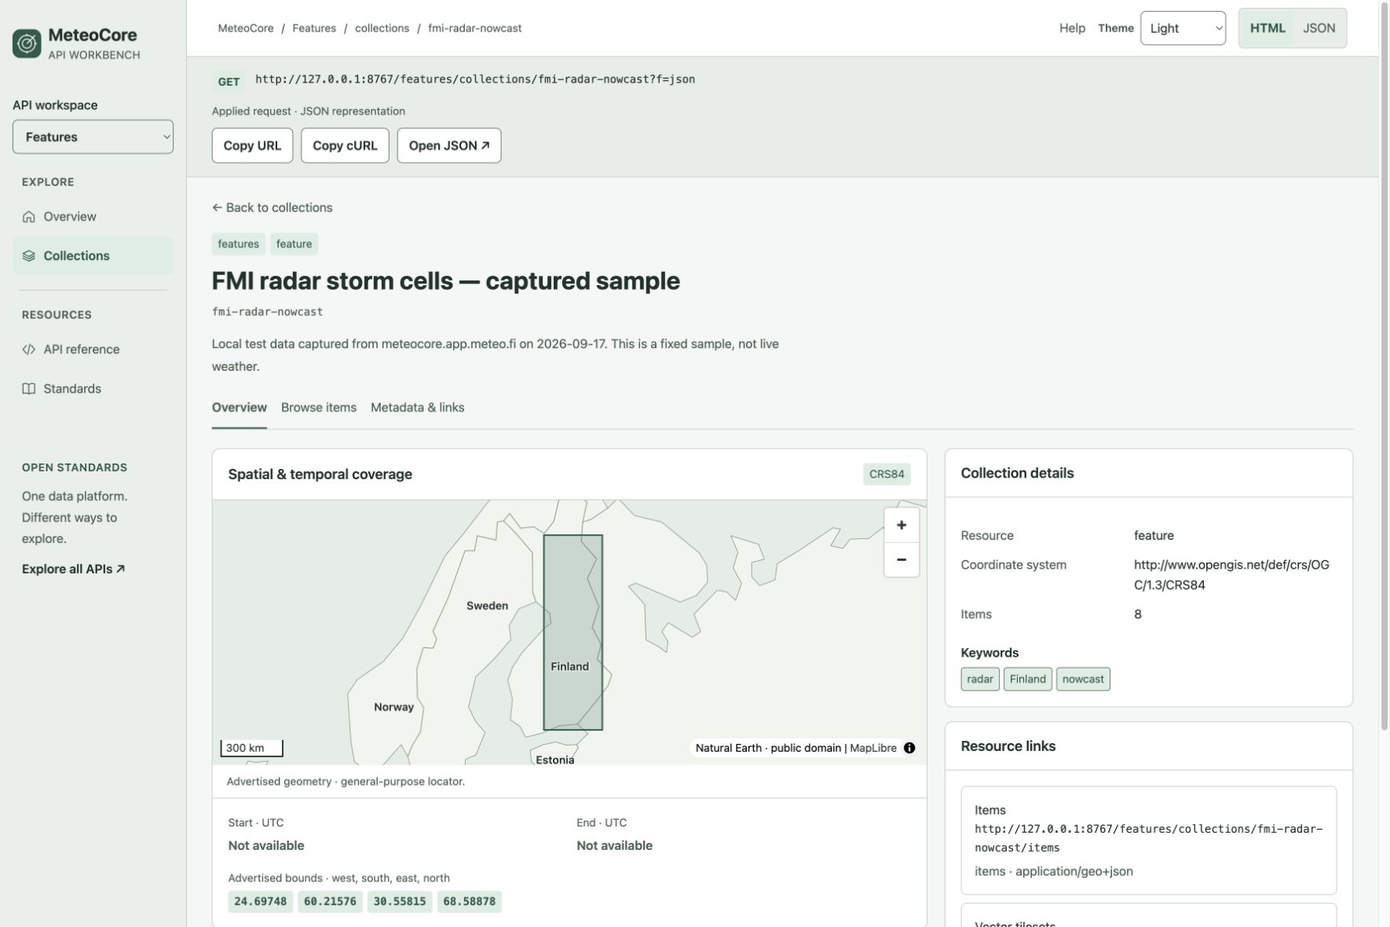
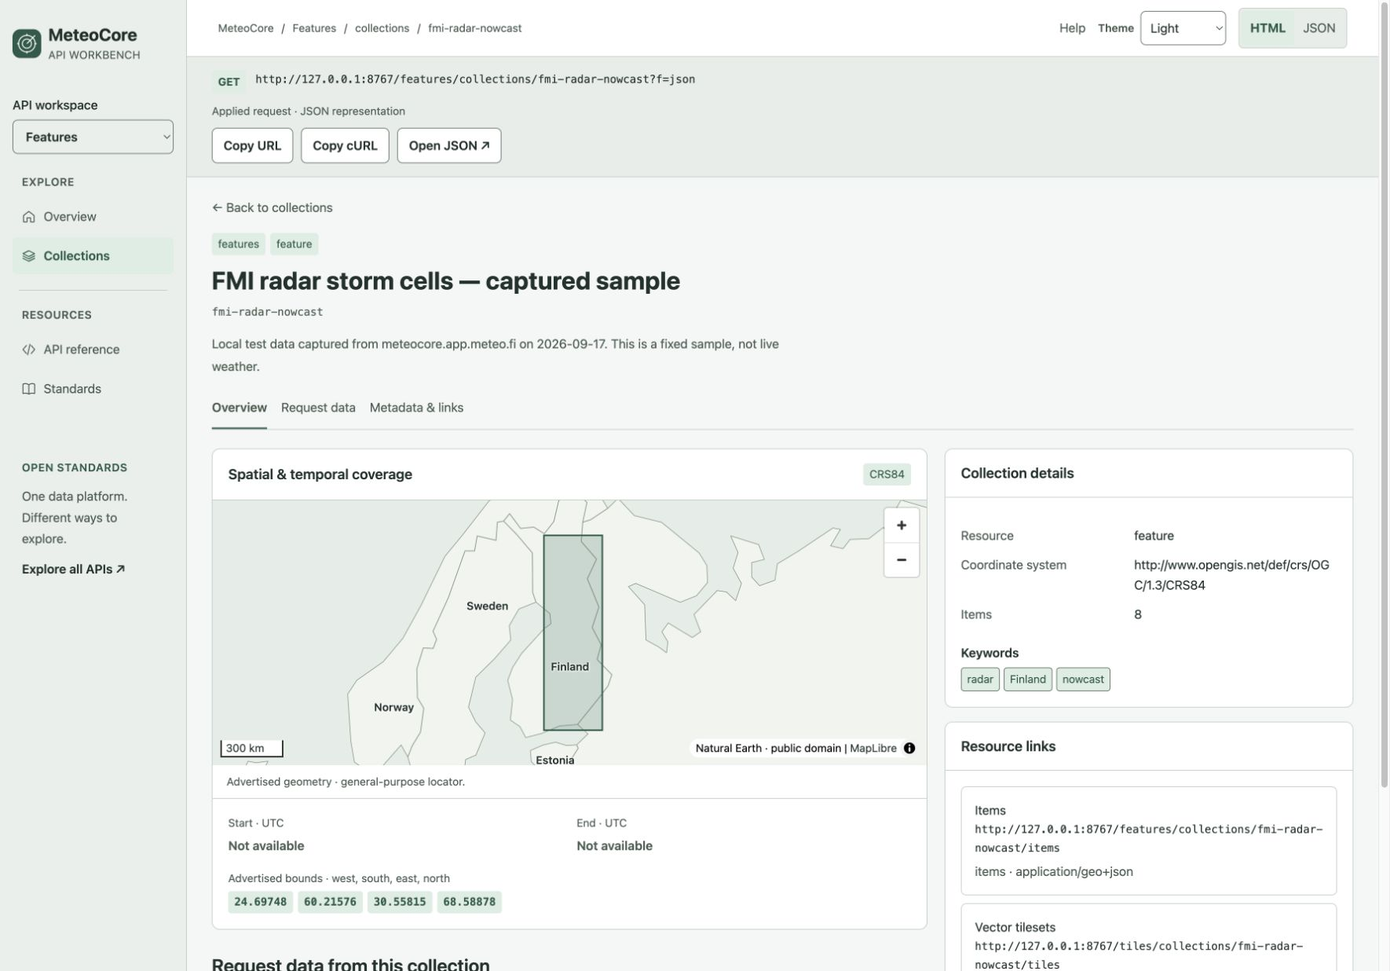
Separate collection discovery from data request workflow

diff --git a/crates/api-common/src/workbench.rs b/crates/api-common/src/workbench.rs
@@ -213,7 +213,7 @@ impl Page<'_> {
 <body><a class="skip" href="#main">Skip to content</a><div class="shell"><aside class="sidebar" aria-label="API navigation"><a class="brand" href="{base}/?f=html"><span class="brand-mark"><svg viewBox="0 0 32 32" fill="none" aria-hidden="true"><circle cx="16" cy="16" r="11"/><circle cx="16" cy="16" r="6"/><path d="M16 16 27 5M16 3v3M3 16h3M16 26v3M26 16h3"/></svg></span><span>MeteoCore<small>API WORKBENCH</small></span></a><div class="api-switch enhanced"><label for="api-select">API workspace</label><select id="api-select">{options}</select></div><noscript><nav aria-label="APIs">{api_nav}</nav></noscript><nav id="primary-nav" aria-label="Workspace">{nav}</nav><div class="sidebar-note"><span class="eyebrow">OPEN STANDARDS</span><p>One data platform.<br>Different ways to explore.</p><a href="{base}/?f=html">Explore all APIs ↗</a></div><div class="sidebar-footer">MeteoCore<small>OGC API · Developer workspace</small></div></aside>
 <div class="workspace"><header class="topbar"><nav id="breadcrumbs" aria-label="Breadcrumb">{crumbs}</nav><div class="topbar-actions"><button class="quiet enhanced" id="help-button">Help</button><label class="theme-label enhanced" for="theme">Theme<select id="theme"><option value="system">System</option><option value="light">Light</option><option value="dark">Dark</option></select></label><nav class="representation-switch" aria-label="Representation"><a aria-current="page" href="{html_url}">HTML</a><a rel="alternate" id="json-link" href="{json_url}">JSON</a></nav></div></header>
 <section id="request-context" aria-label="Current API request"><div class="request-identity"><span class="method">GET</span><code id="request-url">{json_url}</code></div><div class="request-tools"><span class="request-note">Applied request · JSON representation</span><button class="btn small enhanced" data-copy="{json_url}">Copy URL</button><button class="btn small enhanced" data-copy="{curl}">Copy cURL</button><a class="btn small" href="{json_url}">Open JSON ↗</a></div></section>
-<main id="main" tabindex="-1">{body}</main><footer class="page-footer"><span>MeteoCore · Open weather data</span><span>HTML representation · Times in UTC</span></footer></div></div><dialog id="help-dialog"><div class="dialog-head"><h2>Find the right data</h2><button class="icon-button" id="close-help" aria-label="Close help">×</button></div><div class="panel-body"><p>Collection search matches titles, descriptions and keywords. Commas separate alternatives; words form a phrase.</p><p>Advanced search adds required (+) and excluded (-) terms. Area and time narrow coverage; unknown extents remain eligible.</p><p>Item property filters belong to the selected collection. The JSON switch always opens the current resource with its applied filters and paging.</p></div></dialog><div id="toast" role="status" aria-live="polite"></div><script>{SCRIPT}</script></body></html>"##,
+<main id="main" tabindex="-1">{body}</main><footer class="page-footer"><span>MeteoCore · Open weather data</span><span>HTML representation · Times in UTC</span></footer></div></div><dialog id="help-dialog"><div class="dialog-head"><h2>Find a collection, then request data</h2><button class="icon-button" id="close-help" aria-label="Close help">×</button></div><div class="panel-body"><p><strong>1. Find a collection.</strong> Collection search matches titles, descriptions and keywords. Commas separate alternatives; words form a phrase.</p><p>Advanced search adds required (+) and excluded (-) terms. Area and time narrow coverage; unknown extents remain eligible.</p><p><strong>2. Request data.</strong> Open a collection to see its data operations. Feature filters select items within that collection; discovery filters are not copied into the data request. The JSON switch always opens the current resource with its applied filters and paging.</p></div></dialog><div id="toast" role="status" aria-live="polite"></div><script>{SCRIPT}</script></body></html>"##,
             title = escape(title),
             json_url = escape(safe_href(json_url)),
             html_url = escape(safe_href(&html_url)),
@@ -347,8 +347,14 @@ pub fn landing_document(
         body.push_str(&format!("<a class=\"resource-row\" href=\"{}\"><span class=\"method\">GET</span><code>{}</code><span>{}</span>{}</a>",escape(safe_href(&target)),escape(href.strip_prefix(base).unwrap_or(href)),escape(label),icon("arrow")));
     }
     body.push_str("</div></section>");
-    let example = format!("{base}/{discovery}/collections?q=radar&limit=12&f=html");
-    body.push_str(&format!("<div class=\"developer-start\"><section class=\"panel panel-body\"><span class=\"eyebrow\">BUILD A DISCOVERY REQUEST</span><h2>Find a collection</h2><form method=\"get\" action=\"{base}/{discovery}/collections\"><input type=\"hidden\" name=\"f\" value=\"html\"><label for=\"q\">q <span class=\"parameter-type\">string · optional</span></label><div class=\"search-row\"><input id=\"q\" name=\"q\" placeholder=\"radar\"><button class=\"btn primary\">Build query {arrow}</button></div><p class=\"field-help\">Matches title, description and keywords. Add spatial, temporal and paging parameters in the query builder.</p></form></section><section class=\"panel panel-body\"><span class=\"eyebrow\">REQUEST EXAMPLE</span><code class=\"example-code\">GET /{discovery}/collections?q=radar&amp;limit=12&amp;f=json</code><p class=\"section-note\">HTML and JSON represent the same resource and applied parameters.</p>{}</section></div>",anchor(&example,"Open in query builder →","btn small"),base=escape(base),arrow=icon("arrow")));
+    let data_guidance = match api {
+        "features" => "Open a collection, then use Request data to filter its features by the supported properties, area and time. Inspect the results or copy the GeoJSON request.",
+        "edr" => "Open a collection to see its supported data queries and parameters. Choose a location, position or area query, then use the linked API reference to supply the required inputs.",
+        "maps" => "Open a collection to see its map resources. Use the map preview to inspect the data, or the API reference to request an image for an area, time and style.",
+        "tiles" => "Open a collection and follow its tileset links. Select a tile matrix set and tile coordinates to request map or vector tiles.",
+        _ => "Choose an API and a collection first. Then request features, environmental values, map images or tiles using that collection's supported operations.",
+    };
+    body.push_str(&format!(r#"<div class="developer-start"><section class="panel panel-body"><span class="eyebrow">COLLECTION DISCOVERY</span><h2>1. Find a collection</h2><form method="get" action="{base}/{discovery}/collections"><input type="hidden" name="f" value="html"><label for="q">Search collections <span class="parameter-type">q · optional</span></label><div class="search-row"><input id="q" name="q" placeholder="radar"><button class="btn primary">Find collections {arrow}</button></div><p class="field-help">Search dataset titles, descriptions and keywords. Area and time filters in the catalog narrow the collection coverage.</p></form></section><section class="panel panel-body"><span class="eyebrow">DATA ACCESS</span><h2>2. Request data</h2><p class="section-note">{data_guidance}</p><p class="field-help">Select a collection to see the available data requests. Discovery filters are not carried over as data filters.</p></section></div>"#,base=escape(base),arrow=icon("arrow")));
     body.push_str("<section class=\"section-space\"><div class=\"section-header\"><h2>API definitions &amp; resource links</h2></div>");
     body.push_str(&document_links(doc));
     body.push_str("</section>");
@@ -421,7 +427,7 @@ pub fn collection_html(
         .unwrap_or("Environmental data");
     let mut body=format!("<a class=\"back-link\" data-back-scope=\"{}\" href=\"{}\">← Back to collections</a><div class=\"detail-heading\"><div class=\"chip-row\"><span class=\"chip teal\">{}</span><span class=\"chip\">{}</span></div><h1>{}</h1><div class=\"mono\">{}</div><p>{}</p></div><nav class=\"detail-tabs\" aria-label=\"Collection views\"><a data-collection-tab=\"overview\" class=\"active\" href=\"#overview\">Overview</a>",escape(&catalog),escape(&with_format(&catalog,"html")),escape(api),escape(kind),escape(title),escape(id),escape(doc["description"].as_str().unwrap_or_default()));
     if let Some(items) = items {
-        body.push_str(&anchor(&with_format(items, "html"), "Browse items", ""));
+        body.push_str(&anchor(&with_format(items, "html"), "Request data", ""));
     }
     body.push_str("<a data-collection-tab=\"metadata\" href=\"#metadata\">Metadata &amp; links</a></nav><section id=\"overview\" class=\"collection-view\" data-collection-view><div class=\"detail-layout\"><div><section class=\"panel\"><div class=\"panel-head\"><h2>Spatial &amp; temporal coverage</h2><span class=\"chip\">CRS84</span></div>");
     let bbox = &doc["extent"]["spatial"]["bbox"][0];
@@ -450,9 +456,9 @@ pub fn collection_html(
     } else {
         body.push_str("<div class=\"empty-state\"><p>Spatial extent not specified.</p></div>");
     }
-    body.push_str(&format!("<div class=\"coverage-facts\"><div class=\"fact\"><small>Start · UTC</small><strong>{}</strong></div><div class=\"fact\"><small>End · UTC</small><strong>{}</strong></div><div class=\"fact wide\"><small>Advertised bounds · west, south, east, north</small><strong class=\"mono\">{}</strong></div></div></section><section class=\"section-space\"><h2>What you can do with this collection</h2>",value_html(&interval[0]),value_html(&interval[1]),value_html(bbox)));
+    body.push_str(&format!("<div class=\"coverage-facts\"><div class=\"fact\"><small>Start · UTC</small><strong>{}</strong></div><div class=\"fact\"><small>End · UTC</small><strong>{}</strong></div><div class=\"fact wide\"><small>Advertised bounds · west, south, east, north</small><strong class=\"mono\">{}</strong></div></div></section><section class=\"section-space\"><h2>Request data from this collection</h2>",value_html(&interval[0]),value_html(&interval[1]),value_html(bbox)));
     if let Some(items) = items {
-        body.push_str(&format!("<div class=\"callout spaced\">Browse individual items, filter by supported properties, inspect geometry, and access the same results as GeoJSON.</div><div class=\"action-row spaced\">{}{}</div>",anchor(&with_format(items,"html"),"Browse items →","btn primary"),anchor(&url,"View metadata JSON","btn")));
+        body.push_str(&format!("<div class=\"callout spaced\">Filter features within this collection by its supported properties, area and time. Inspect the results or copy the GeoJSON request. These filters select data, not collections.</div><div class=\"action-row spaced\">{}{}</div>",anchor(&with_format(items,"html"),"Build a data request →","btn primary"),anchor(&url,"View metadata JSON","btn")));
     }
     if let Some(queries) = doc["data_queries"].as_object() {
         body.push_str("<div class=\"endpoint-list spaced\">");
@@ -596,7 +602,7 @@ pub fn collections_html(
         let current = value(name);
         match parameter {
             CollectionParameter::Format=>{},
-            CollectionParameter::Q=>primary=format!("<div class=\"search-row\"><div class=\"search-main\"><label for=\"collection-search\">q <span class=\"parameter-type\">string · optional</span></label><div class=\"search-input-wrap\">{}<input id=\"collection-search\" name=\"q\" value=\"{}\" placeholder=\"radar\"></div></div><button class=\"btn primary\">Apply query {}</button></div><p class=\"search-hint\">Titles, descriptions and keywords.<span>Try {} or {}</span></p>",icon("search"),escape(current),icon("arrow"),anchor(&query_edit(&json_url,"q",Some("radar")),"radar","quiet"),anchor(&query_edit(&json_url,"q",Some("observations")),"observations","quiet")),
+            CollectionParameter::Q=>primary=format!("<div class=\"search-row\"><div class=\"search-main\"><label for=\"collection-search\">q <span class=\"parameter-type\">string · optional</span></label><div class=\"search-input-wrap\">{}<input id=\"collection-search\" name=\"q\" value=\"{}\" placeholder=\"radar\"></div></div><button class=\"btn primary\">Find collections {}</button></div><p class=\"search-hint\">Titles, descriptions and keywords.<span>Try {} or {}</span></p>",icon("search"),escape(current),icon("arrow"),anchor(&query_edit(&json_url,"q",Some("radar")),"radar","quiet"),anchor(&query_edit(&json_url,"q",Some("observations")),"observations","quiet")),
             CollectionParameter::Limit|CollectionParameter::Offset=>paging.push_str(&input(name,&if name=="limit"{search.limit}else{search.offset}.to_string(),"integer","number",false)),
             CollectionParameter::Bbox=>{
                 let bounds:Vec<_>=current.split(',').collect();
@@ -641,10 +647,10 @@ pub fn collections_html(
             )
         })
         .collect::<String>();
-    let form=format!("<form class=\"search-panel query-form\" method=\"get\" action=\"{}\"><input type=\"hidden\" name=\"f\" value=\"html\"><div class=\"builder-heading\"><h2>Query parameters</h2><span class=\"mono\">GET</span></div>{primary}<details class=\"filters\" open><summary>Advanced search, area and time</summary><div class=\"filters-grid\">{advanced}</div><div class=\"paging-fields\">{paging}</div><div class=\"filter-controls\"><span class=\"field-help\">Collections with unknown extents remain eligible.</span>{}</div></details><div class=\"active-filters\">{chips}</div><div class=\"draft-request enhanced\"><small>Request preview · apply to update results</small><code data-draft></code></div><noscript><p>Enable JavaScript to edit advanced parameters.</p></noscript></form>",escape(url),anchor(&with_format(url,"html"),"Clear filters","quiet"));
+    let form=format!("<form class=\"search-panel query-form\" method=\"get\" action=\"{}\"><input type=\"hidden\" name=\"f\" value=\"html\"><div class=\"builder-heading\"><h2>Collection search</h2><span class=\"mono\">GET</span></div>{primary}<details class=\"filters\" open><summary>Advanced search, area and time</summary><div class=\"filters-grid\">{advanced}</div><div class=\"paging-fields\">{paging}</div><div class=\"filter-controls\"><span class=\"field-help\">Collections with unknown extents remain eligible.</span>{}</div></details><div class=\"active-filters\">{chips}</div><div class=\"draft-request enhanced\"><small>Collection search request · submit to update matches</small><code data-draft></code></div><noscript><p>Enable JavaScript to edit advanced parameters.</p></noscript></form>",escape(url),anchor(&with_format(url,"html"),"Clear filters","quiet"));
     let mut body = page_heading(
         "Collections",
-        "GET /collections · Build a discovery query and inspect the matching resources.",
+        "Find datasets by their metadata and coverage. Select a collection to build a data request.",
     );
     body=body.replace("OGC API · HTML REPRESENTATION",&format!("{} · DATA CATALOG",api.to_uppercase())).replacen("</div></div>",&format!("</div><div class=\"action-row\"><button class=\"btn enhanced\" data-copy=\"{}\">Copy API URL ↗</button></div></div>",escape(&json_url)),1);
     let first = if docs.is_empty() {
@@ -653,7 +659,7 @@ pub fn collections_html(
         search.offset + 1
     };
     let last = search.offset + docs.len();
-    body.push_str(&format!("<div data-results-scope=\"{}\"></div><div class=\"query-workspace\"><aside class=\"query-builder\">{form}</aside><section class=\"query-results\" aria-label=\"Query results\"><div class=\"results-bar\"><div><strong>{matched} matching collections</strong><small>{first}–{last} shown · Collection ID order</small></div><div class=\"view-switch enhanced\" aria-label=\"Result presentation\"><button data-view=\"list\" class=\"selected\" aria-pressed=\"true\">{}List</button><button data-view=\"cards\" aria-pressed=\"false\">{}Cards</button></div></div><div class=\"collection-list\">",escape(url),icon("list"),icon("grid")));
+    body.push_str(&format!("<div data-results-scope=\"{}\"></div><div class=\"query-workspace\"><aside class=\"query-builder\">{form}</aside><section class=\"query-results\" aria-label=\"Matching collections\"><div class=\"results-bar\"><div><strong>{matched} matching collections</strong><small>{first}–{last} shown · Collection ID order</small></div><div class=\"view-switch enhanced\" aria-label=\"Result presentation\"><button data-view=\"list\" class=\"selected\" aria-pressed=\"true\">{}List</button><button data-view=\"cards\" aria-pressed=\"false\">{}Cards</button></div></div><div class=\"collection-list\">",escape(url),icon("list"),icon("grid")));
     if docs.is_empty() {
         body.push_str(&format!("<div class=\"empty-state\"><span class=\"empty-icon\">{}</span><h2>No collections match these filters.</h2><p>Try a broader search, expand the area or remove a time filter.</p>{}</div>",icon("search"),anchor(&with_format(url,"html"),"Clear filters","btn primary")));
     }

diff --git a/crates/api-features/src/html.rs b/crates/api-features/src/html.rs
@@ -103,7 +103,7 @@ fn query_form(doc: &Value, controls: &FeatureControls) -> String {
             .map(|(_, v)| v.as_ref())
             .unwrap_or("")
     };
-    let mut out=format!("<form class=\"query-form item-query items-controls panel enhanced\" action=\"{}\" method=\"get\"><input type=\"hidden\" name=\"f\" value=\"html\"><div class=\"builder-heading\"><h2>Item query parameters</h2><span class=\"mono\">GET</span></div><div class=\"item-primary-fields\">",escape(action));
+    let mut out=format!("<form class=\"query-form item-query items-controls panel enhanced\" action=\"{}\" method=\"get\"><input type=\"hidden\" name=\"f\" value=\"html\"><div class=\"builder-heading\"><h2>Data request builder</h2><span class=\"mono\">GET</span></div><div class=\"item-primary-fields\">",escape(action));
     if !controls.filterables.is_empty() {
         out.push_str("<div class=\"equal-fields\"><label>Property<select data-new-property><option value=\"\">Choose a property</option>");
         for name in &controls.filterables {
@@ -124,7 +124,7 @@ fn query_form(doc: &Value, controls: &FeatureControls) -> String {
             true,
         ));
     }
-    out.push_str("<button class=\"btn primary\">Apply query</button></div><p class=\"search-hint\">Item properties are collection-specific. Collection text search is available under Collections.</p>");
+    out.push_str("<button class=\"btn primary\">Request features</button></div><p class=\"search-hint\">Filter features within this selected collection. Use Collections to find a different dataset.</p>");
     let mut applied = String::new();
     for name in &controls.filterables {
         for (_, value) in pairs.iter().filter(|(k, _)| k == name) {
@@ -171,7 +171,7 @@ fn query_form(doc: &Value, controls: &FeatureControls) -> String {
             true,
         ));
     }
-    out.push_str(&format!("</div></details><div class=\"filter-controls\">{}</div><div class=\"draft-request\"><small>Request preview · apply to update results</small><code data-draft></code></div></form><noscript><p class=\"callout\">Paging, item links and JSON work without JavaScript. Enable JavaScript to edit item-query parameters.</p></noscript>",ui::anchor(&ui::with_format(action,"html"),"Clear item filters","quiet")));
+    out.push_str(&format!("</div></details><div class=\"filter-controls\">{}</div><div class=\"draft-request\"><small>Data request preview · submit to update features</small><code data-draft></code></div></form><noscript><p class=\"callout\">Paging, item links and JSON work without JavaScript. Enable JavaScript to edit item-query parameters.</p></noscript>",ui::anchor(&ui::with_format(action,"html"),"Clear item filters","quiet")));
     out
 }
 
@@ -209,7 +209,7 @@ pub(crate) fn features_html(
         }
     );
     if is_list {
-        body.push_str(&format!("<div class=\"detail-heading\"><div class=\"chip-row\"><span class=\"chip teal\">Features</span><span class=\"chip\">Feature collection</span></div><h1>{}</h1><div class=\"mono\">{}</div><p>Inspect features and use the same request as GeoJSON.</p></div><nav class=\"detail-tabs\" aria-label=\"Collection views\">{}<a class=\"active\" aria-current=\"page\" href=\"{}\">Browse items</a>{}</nav>",escape(title),escape(collection_id),ui::anchor(&ui::with_format(&collection_url,"html"),"Overview",""),escape(&ui::with_format(&items_url,"html")),ui::anchor(&format!("{}#metadata",ui::with_format(&collection_url,"html")),"Metadata & links","")));
+        body.push_str(&format!("<div class=\"detail-heading\"><div class=\"chip-row\"><span class=\"chip teal\">Features</span><span class=\"chip\">Feature collection</span></div><h1>{}</h1><div class=\"mono\">{}</div><p>Request features from this collection, inspect the response, and use the same request as GeoJSON.</p></div><nav class=\"detail-tabs\" aria-label=\"Collection views\">{}<a class=\"active\" aria-current=\"page\" href=\"{}\">Request data</a>{}</nav>",escape(title),escape(collection_id),ui::anchor(&ui::with_format(&collection_url,"html"),"Overview",""),escape(&ui::with_format(&items_url,"html")),ui::anchor(&format!("{}#metadata",ui::with_format(&collection_url,"html")),"Metadata & links","")));
     } else {
         body.push_str(&format!("<div class=\"page-title\"><div><span class=\"eyebrow\">FEATURE DETAIL</span><h1>{}</h1><p class=\"mono\">{}</p><div class=\"chip-row spaced\"><span class=\"chip teal\">{}</span>{}</div></div>{}</div>",escape(&page_title),escape(doc["id"].as_str().unwrap_or_default()),escape(doc["geometry"]["type"].as_str().unwrap_or("No geometry")),feature_flags(doc),ui::anchor(&json_url,"GeoJSON { }","btn")));
         if doc["properties"]["likely_clutter"] == true {

diff --git a/docs/design/api-workbench/README.md b/docs/design/api-workbench/README.md
@@ -22,7 +22,7 @@ ordinary URLs, not a separate client-side application.
   supporting text and code. Theme choice persists locally.
 - The sidebar, typography, grouped search controls, chips and result rows use the
   approved mockup's HTML structure and styles. Collection views restore overview,
-  browse-items and metadata tabs; item details restore summary metrics and source
+  request-data and metadata tabs; item details restore summary metrics and source
   quality callouts when the corresponding properties exist.
 - Collection details retain full API metadata, keywords and license labels,
   including free-text licenses without a URL. EDR model-run pages share the shell.
@@ -76,3 +76,13 @@ The geographic backdrop comes from public-domain Natural Earth 1:110m country
 outlines. See [source and transformation details](../../../crates/server/preview/vendor/LICENSE-workbench-land.txt).
 It is a general-purpose locator; all geometry and bounding values remain available
 in the current resource's JSON.
+
+## Discover collections, then request data
+
+The overview has one **Find collections** action. The adjacent **Request data**
+step explains what becomes available after choosing a collection; it does not
+repeat the search action. Catalog controls are labelled **Collection search**.
+Within a Features collection, **Request data** opens the **Data request builder**
+and **Request features** retrieves matching items. EDR/Maps/Tiles explain their
+own operations without implying a new universal data builder. Discovery and
+data filters remain independent, and JSON always represents the current resource.

diff --git a/crates/api-features/README.md b/crates/api-features/README.md
@@ -234,3 +234,7 @@ coordinate details when WebGL is unavailable. It makes no additional feature or
 external tile requests. Alert expiry is labelled in the browser; server HTML and ETags remain
 deterministic. JavaScript enables item-query editing, map interaction and property
 search; paging and resource links remain usable without it.
+
+In HTML, the collection’s **Request data** tab opens the `/items` data request
+builder. **Request features** applies filters within that collection; collection
+discovery remains under **Collections → Find collections**.

diff --git a/docs/ogc-api-common-matrix.md b/docs/ogc-api-common-matrix.md
@@ -301,3 +301,7 @@ active UI controls. Features item sorting is a separate, engine-advertised contr
 The workbench uses the approved design's grouped search controls and collection
 overview/metadata tabs. Coverage locators visualize existing advertised extents;
 they do not infer missing temporal bounds, grids or hierarchy relationships.
+
+The HTML workflow names Common discovery **Find collections** and API-specific
+data access **Request data**. Discovery filters select collections by metadata
+and coverage; they do not become data-query predicates.

diff --git a/crates/api-edr/README.md b/crates/api-edr/README.md
@@ -194,3 +194,7 @@ metadata tabs separate coverage from the full metadata table; a local geographic
 backdrop locates the advertised extent. Data-query
 payloads keep their existing representations. See the
 [shared HTML behavior](../api-common/README.md#html-api-workbench).
+
+The HTML overview distinguishes finding a collection from requesting its data.
+Collection pages list advertised EDR operations and link to the API reference
+for required data-query inputs; collection search is not an EDR data builder.

diff --git a/crates/api-common/README.md b/crates/api-common/README.md
@@ -130,3 +130,7 @@ future-control or loading-state demonstrations are exposed in the live UI.
 
 The former page builders in `ds_core::html` have been removed. That module retains
 content negotiation, escaping and view types; `workbench` owns page rendering.
+
+The overview separates collection discovery (Find collections) from data access
+(Request data after selection). Catalog filters search metadata/coverage; they
+are not forwarded as filters on data. The overview has one discovery action.
